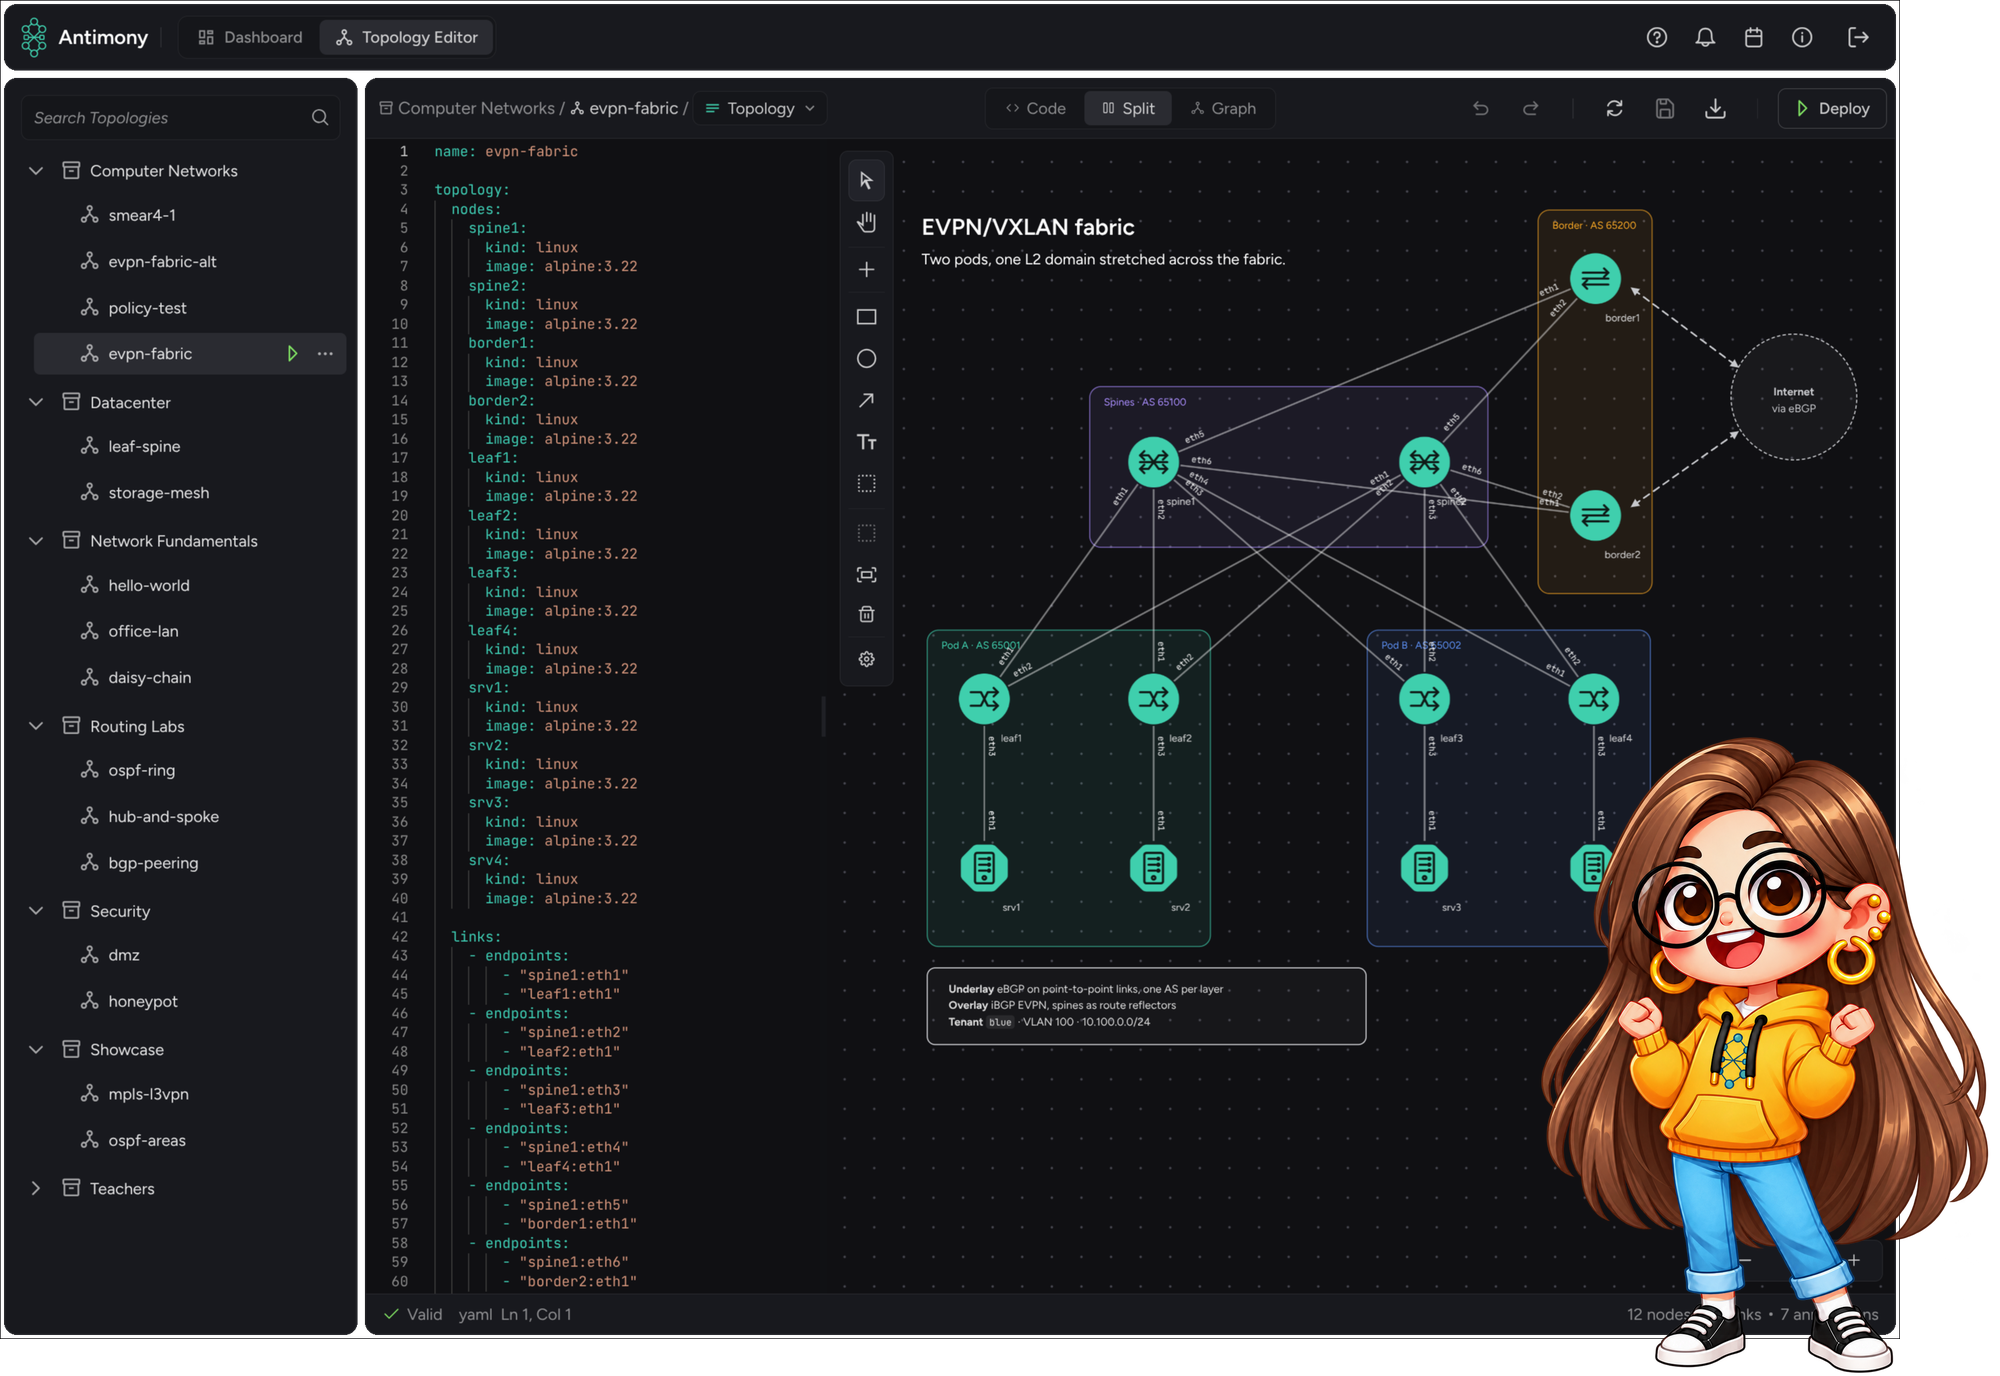
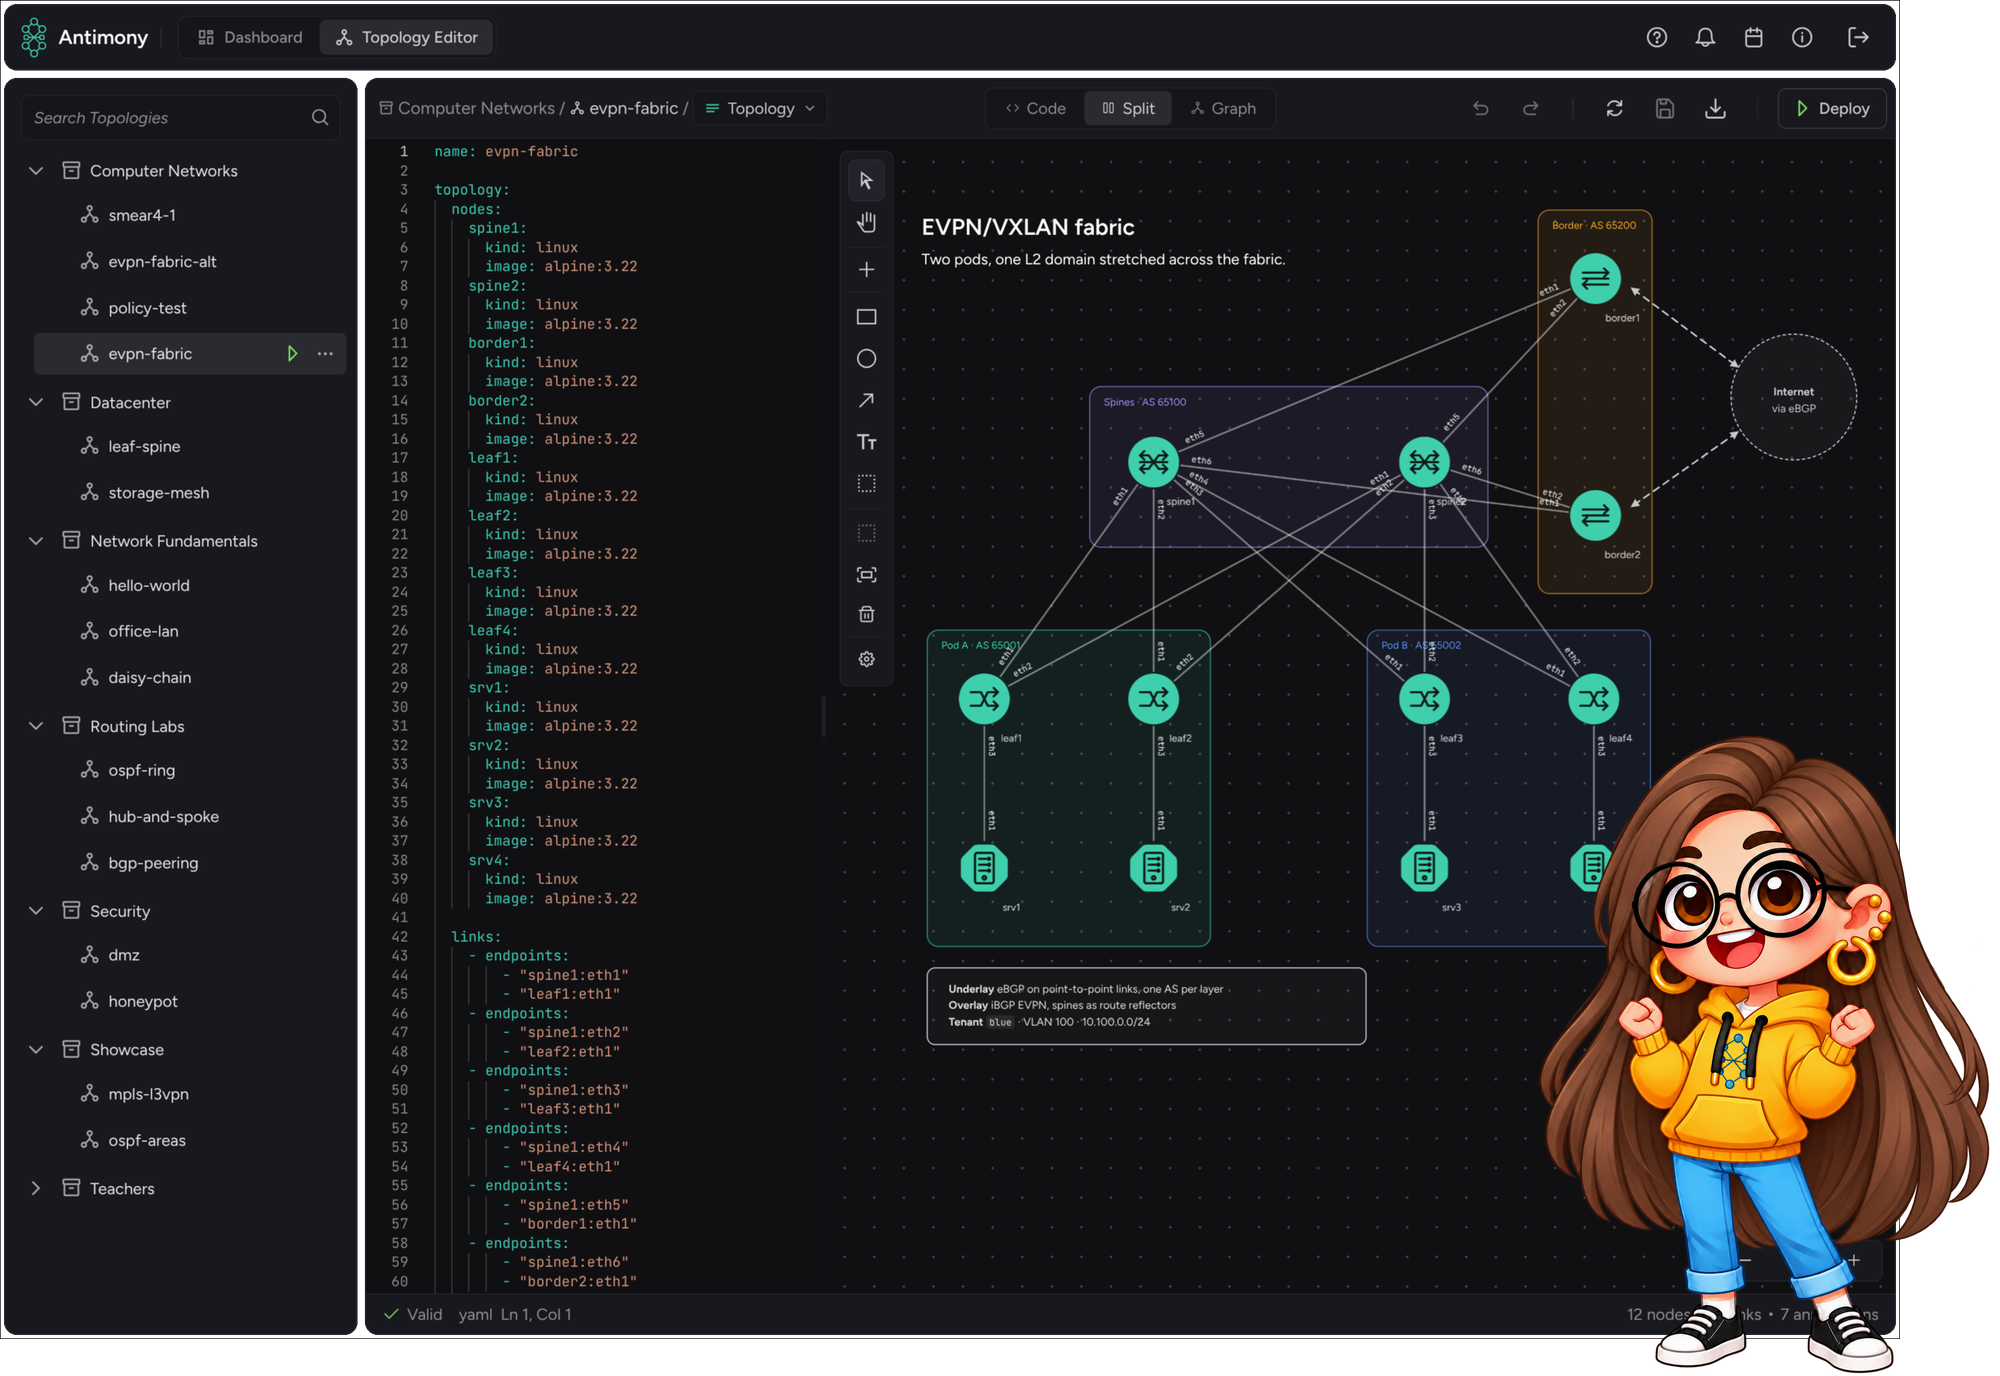
Fixed zoey image and added electron
Also added a final test fix that didn't get committed before

Changed region(s): [[0.775, 0.5312, 1.0, 0.875], [0.837, 0.8438, 0.93, 1.0]]

diff --git a/server/src/test/harness_test.go b/server/src/test/harness_test.go
@@ -354,6 +354,12 @@ func NewHarness(t *testing.T, options ...HarnessOption) *Harness {
 	})
 	require.NoError(t, err)
 
+	// Every connection to ":memory:" opens a database of its own, so the pool keeps a single connection. Otherwise a
+	// query that runs alongside another one gets an empty database without tables.
+	sqlDB, err := db.DB()
+	require.NoError(t, err)
+	sqlDB.SetMaxOpenConns(1)
+
 	require.NoError(t, db.AutoMigrate(
 		&user.User{},
 		&collection.Collection{},
